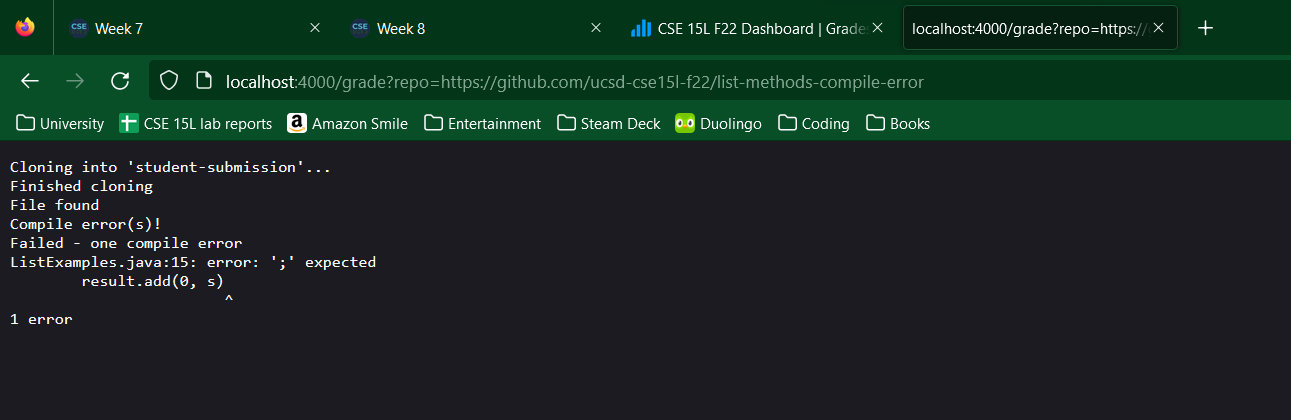
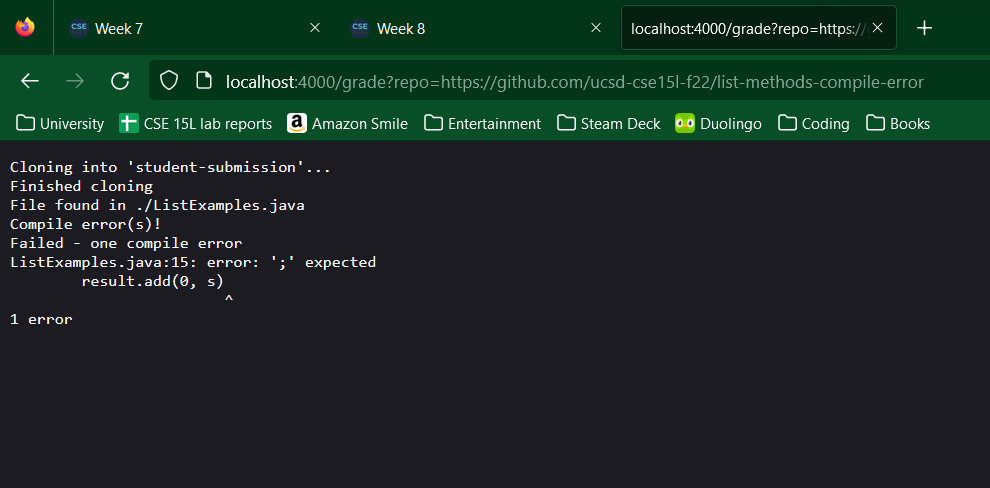
fixed formatting issue

Changed region(s): [[0.0, 0.0, 1.0, 0.681], [0.0, 0.7429, 0.0606, 0.7738]]

diff --git a/LabReport5/lab-report-5.md b/LabReport5/lab-report-5.md
@@ -9,49 +9,41 @@
 Once we clone the GitHub repository from above, we should see a file called "grade.sh" that contains this code:
 
 ```bash
+# Create your grading script here
 CPATH=".;lib/junit-4.13.2.jar;lib/hamcrest-core-1.3.jar"
-
 rm -rf student-submission
 git clone $1 student-submission
-
 echo 'Finished cloning'
 cd student-submission
-
 FILEPATH=`find ./ -name "ListExamples.java"`
 
 if [[ $FILEPATH != "" ]]
-    then
-    echo "File found"
+then
+    echo "File found in $FILEPATH"
     cp $FILEPATH ../
-    else
-    echo "Missing file / file not found"
-    echo "Failed - try again"
+else
+    echo "Failed - Missing file / file not found"
     exit 1
 fi
 
 cd ..
-
 javac -cp $CPATH *.java 2> compile-err.txt
-
 if [[ $? -ne 0 ]]
-
-    then
+then
     echo "Compile error(s)!"
     if [[ `grep "errors" compile-err.txt` -ge 1 ]]
-        then
-            echo "Failed - too many compile errors"
-        else
-            echo "Failed - one compile error"
+    then
+        echo "Failed - multiple compile errors"
+    else
+        echo "Failed - one compile error"
     fi
     cat compile-err.txt
     exit 1
-
-    else
+else
     echo "Compiled successfully"
 fi
 
-java -cp $CPATH org.junit.runner.JUnitCore TestListExamples > test-results.txt 2> test-err.txt
-
+java -cp $CPATH org.junit.runner.JUnitCore TestListExamples > test-results.txt
 if [[ `grep "FAILURES" < test-results.txt` -ne 0 ]]
 then
     echo "Failed - Test(s) failed"
@@ -61,8 +53,6 @@ else
     echo "Passed - all tests run successfully"
     exit 0
 fi
-
-
 ```
 
 This script is important as this enables us to "grade" a repository on our server.
@@ -95,48 +85,49 @@ This submission receives a passing grade, although the file we're grading (`List
 
 For this report, we'll observe a trace of `grade.sh` grading student submission 3.
 
-**Line 4:** `rm -rf student-submission`
+**Line 3:** `rm -rf student-submission`
 
 * No stdout, stderr (command deletes directory)
 * Return code: 0
 
-**Line 5:** `git clone $1 student-submission`
+**Line 4:** `git clone $1 student-submission`
 
 * No stdout, stderr
 * Return code: 0
 
-**Line 8:** ```FILEPATH=`find ./ -name "ListExamples.java"` ```
+**Line 7:** ```FILEPATH=`find ./ -name "ListExamples.java"` ```
 
 * Runs `find` command and assigns result to FILEPATH variable
 * Result: `./pa1/ListExamples.java`
 
-**Lines 11-19:** `if [[ $FILEPATH != "" ]]`
+**Lines 9-16:** `if [[ $FILEPATH != "" ]]`
 
 * If loop checks if `FILEPATH` is not an empty string
 * Condition is true, since `FILEPATH` has a path
 
-**Line 14:** `cp $FILEPATH ../`
+**Line 12:** `cp $FILEPATH ../`
 
 * No stdout, stderr
 * Return code: 0
 
-**Lines 15-18** do not run since the if statement condition is met
+**Lines 14-15** do not run since the if statement condition is met
 
-**Line 23:** `javac -cp $CPATH *.java`
+**Line 19:** `javac -cp $CPATH *.java 2> compile-err.txt`
 
 * No stdout, stderr
 * Return code: 0
 
-**Lines 25-40:** `if [[ $? -ne 0 ]]`
 
-* If loop checks the return code of line 23 is not equal to zero (exit code != 0 means errors)
-* Condition is false, since line 23 has return code of 0
+**Lines 20-33:** `if [[ $? -ne 0 ]]`
 
-**Lines 27-36** are not run since if statement condition is not met
+* If loop checks the return code of `javac` does not equal to zero (exit code != 0 means compile errors)
+* Condition is false, since `javac` has return code of 0
 
-**Line 42:** `java -cp $CPATH org.junit.runner.JUnitCore TestListExamples > test-results.txt`
+**Lines 22-30** are not run since if statement condition is not met
 
-* **_stdout:_**
+**Line 35:** `java -cp $CPATH org.junit.runner.JUnitCore TestListExamples > test-results.txt`
+
+* stdout:
 
 ```bash
 JUnit version 4.13.2
@@ -149,7 +140,7 @@ OK (2 tests)
 * No stderr
 * Return code: 0
 
-**Lines 44-52:**
+**Lines 36-44:**
 
 ```bash
 if [[ `grep "FAILURES" < test-results.txt` -ne 0 ]]
@@ -158,4 +149,4 @@ if [[ `grep "FAILURES" < test-results.txt` -ne 0 ]]
 * If loop checks if "FAILURES" is present in `test-results.txt`, indicating that tests failed
 * Condition is false; since `test-results.txt` does not contain "FAILURES", all tests passed
 
-**Lines 46-48** are not run since if statement condition is not met
+**Lines 38-40** are not run since if statement condition is not met
